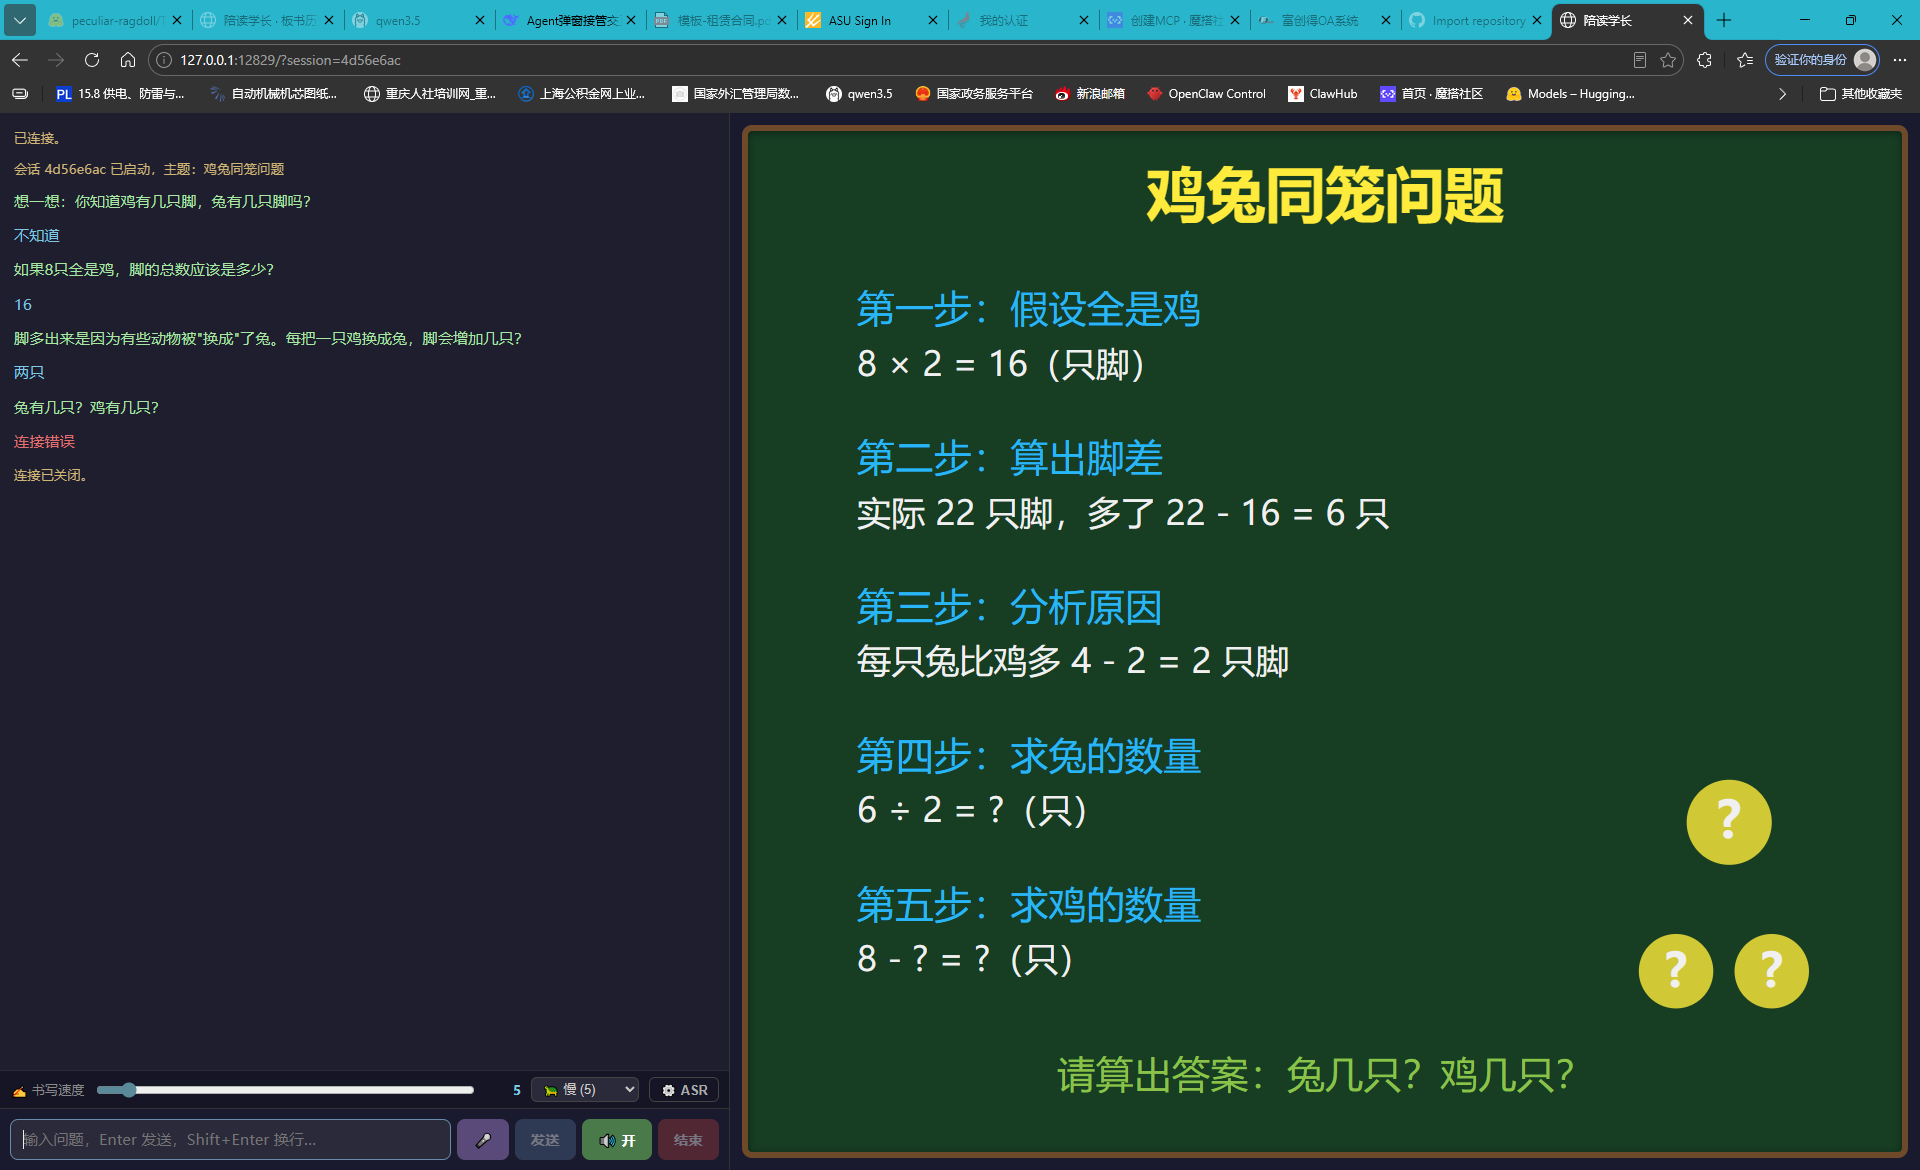
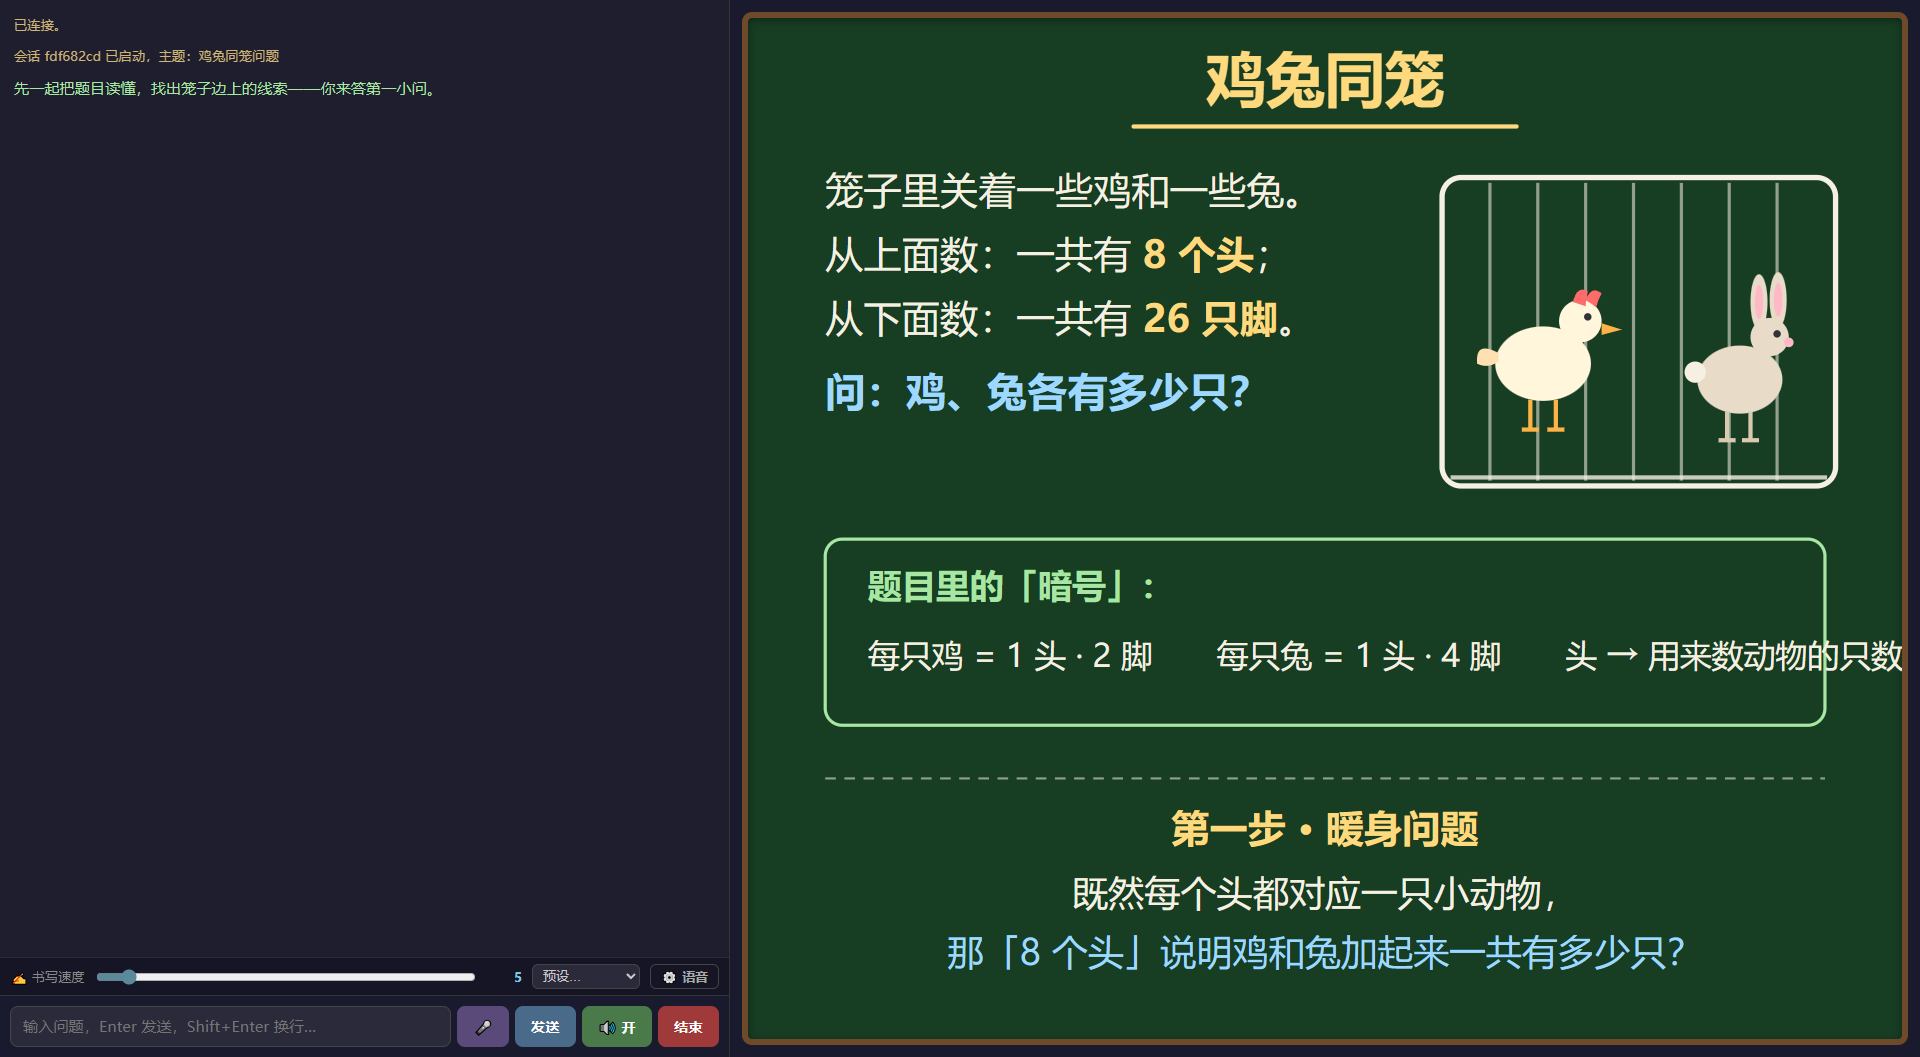
Update clone URL and replace screenshot

diff --git a/README.md b/README.md
@@ -62,7 +62,7 @@ close_tutoring()
 ### 1. 克隆并安装依赖
 
 ```bash
-git clone https://github.com/<your-name>/interactive-mcp.git
+git clone https://github.com/coldcat8120/interactive-mcp.git
 cd interactive-mcp
 pip install -r requirements.txt
 ```
